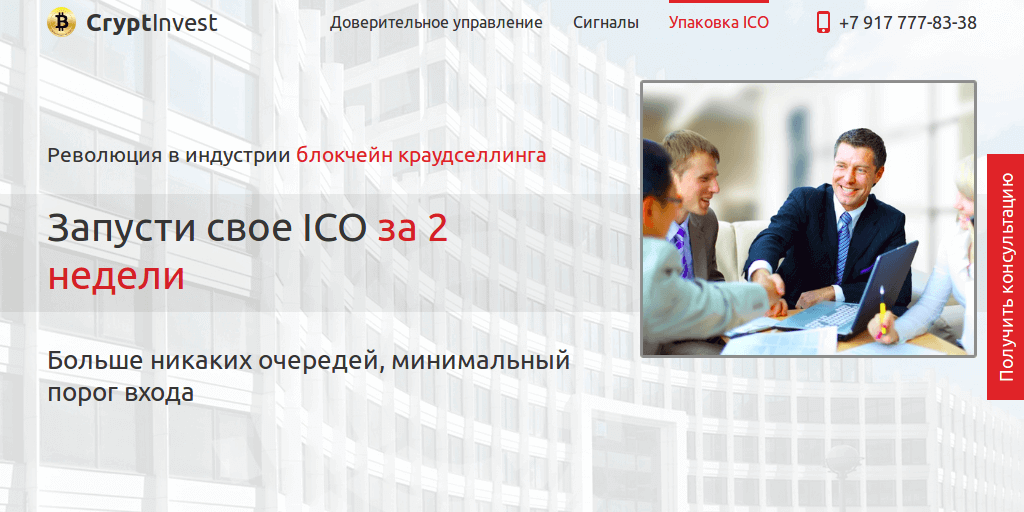
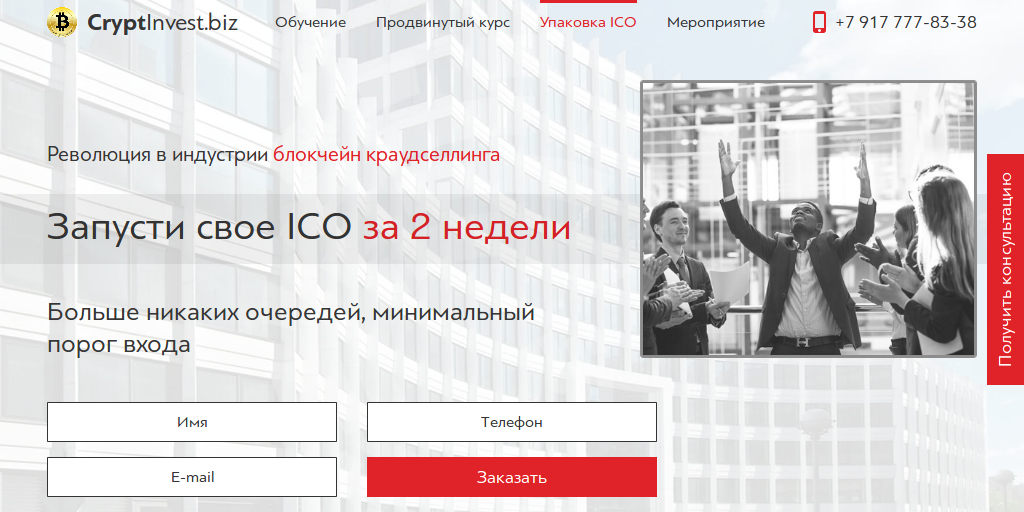
Updated og preview for all pages. Added navbar to meetup page. Fixed video links on main page

diff --git a/src/assets/scripts/form.js b/src/assets/scripts/form.js
@@ -24,14 +24,13 @@ $('.callbackForm').submit(function (e) {
     data: JSON.stringify(data)
   })
     .done(function () {
-      if (modal.length) {
-        modal.remodal().close();
-      }
+      if (modal.length) modal.remodal().close();
+
       toastr.success('Ваша заявка отправлена!');
       form.trigger('reset');
 
       if (location.href.indexOf(location.origin + '/ico') !== -1) {
-        fileDownload(location.origin+'/cryptinvest.biz_ico.pdf', 'cryptinvest.biz_ico.pdf');
+        fileDownload(location.origin+'/cryptinvest_ico.pdf', 'cryptinvest_ico.pdf');
       }
 
       // switch (form.attr('id')) {
